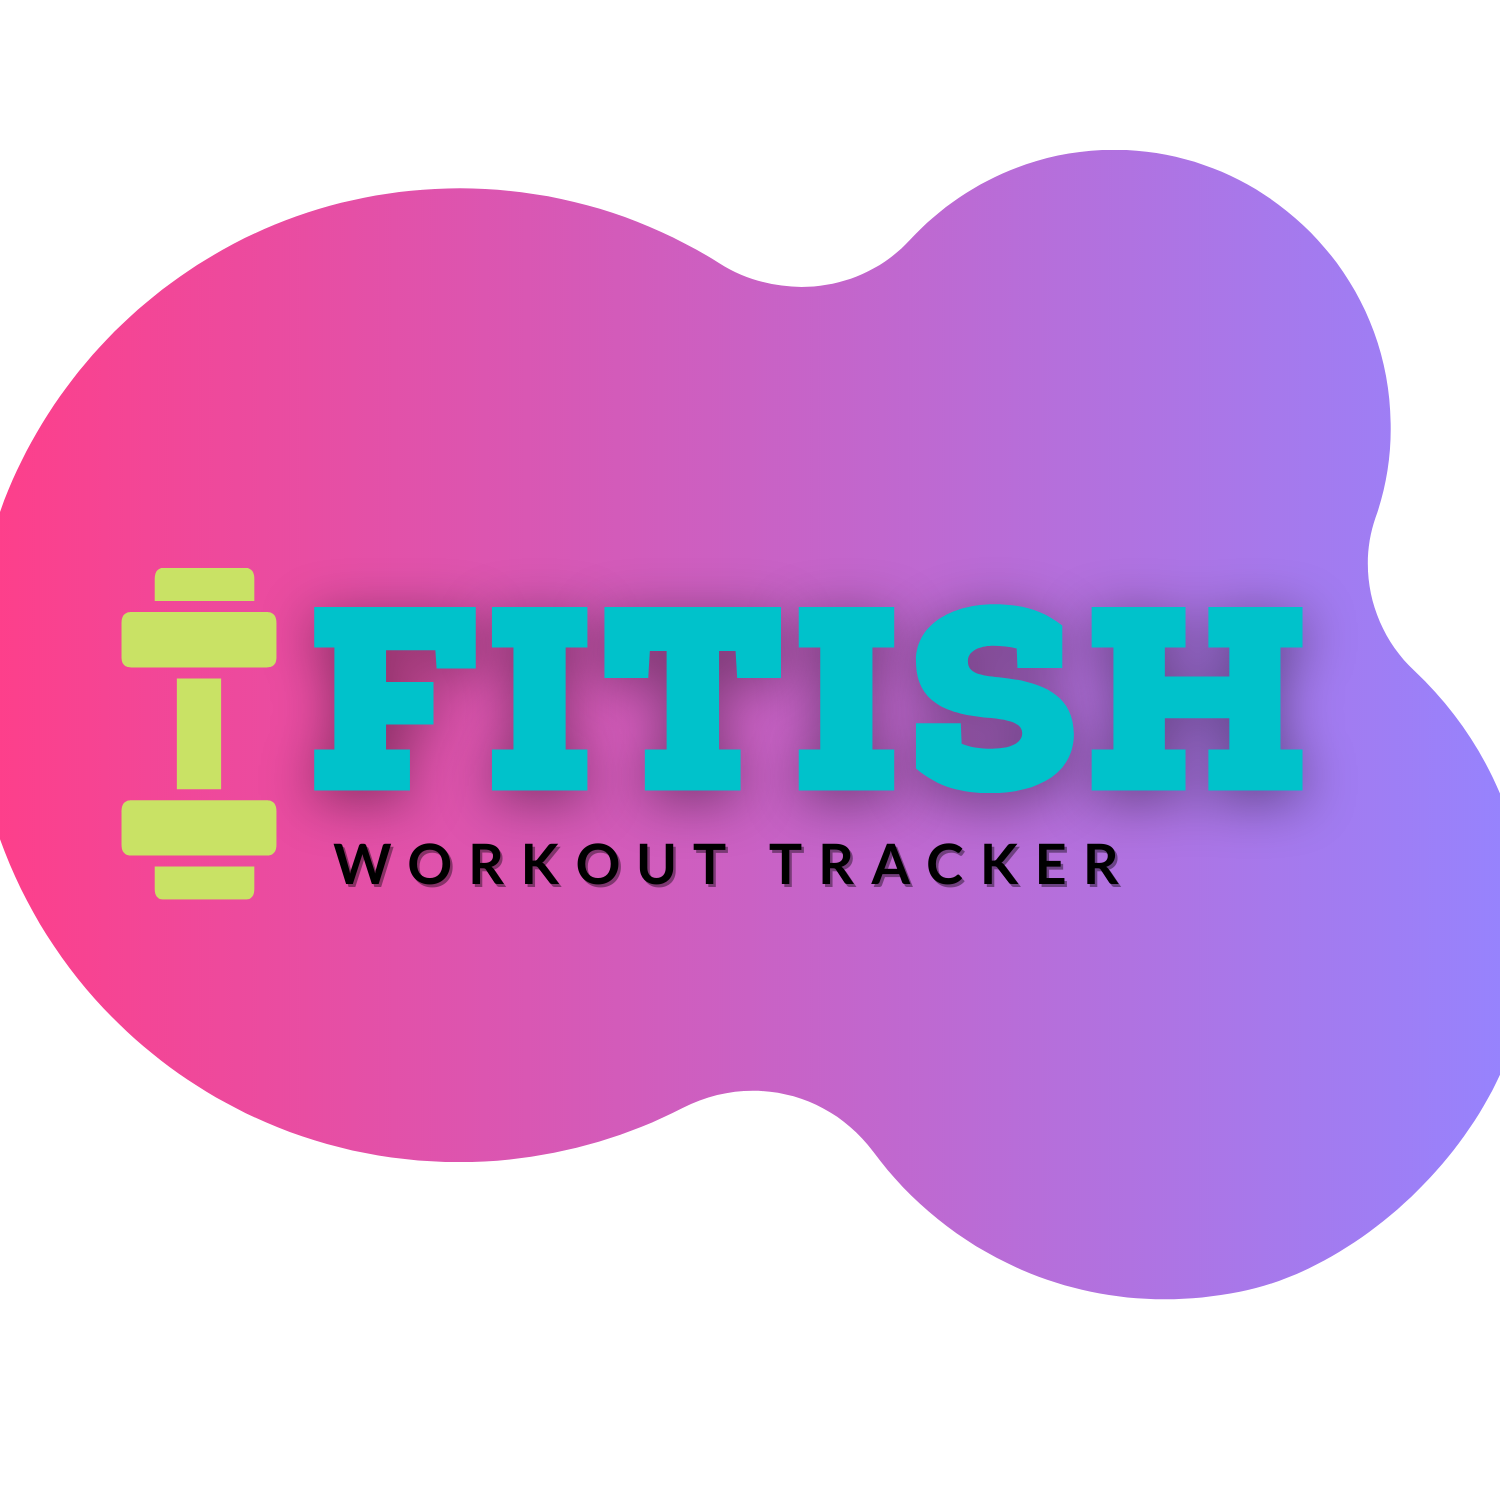
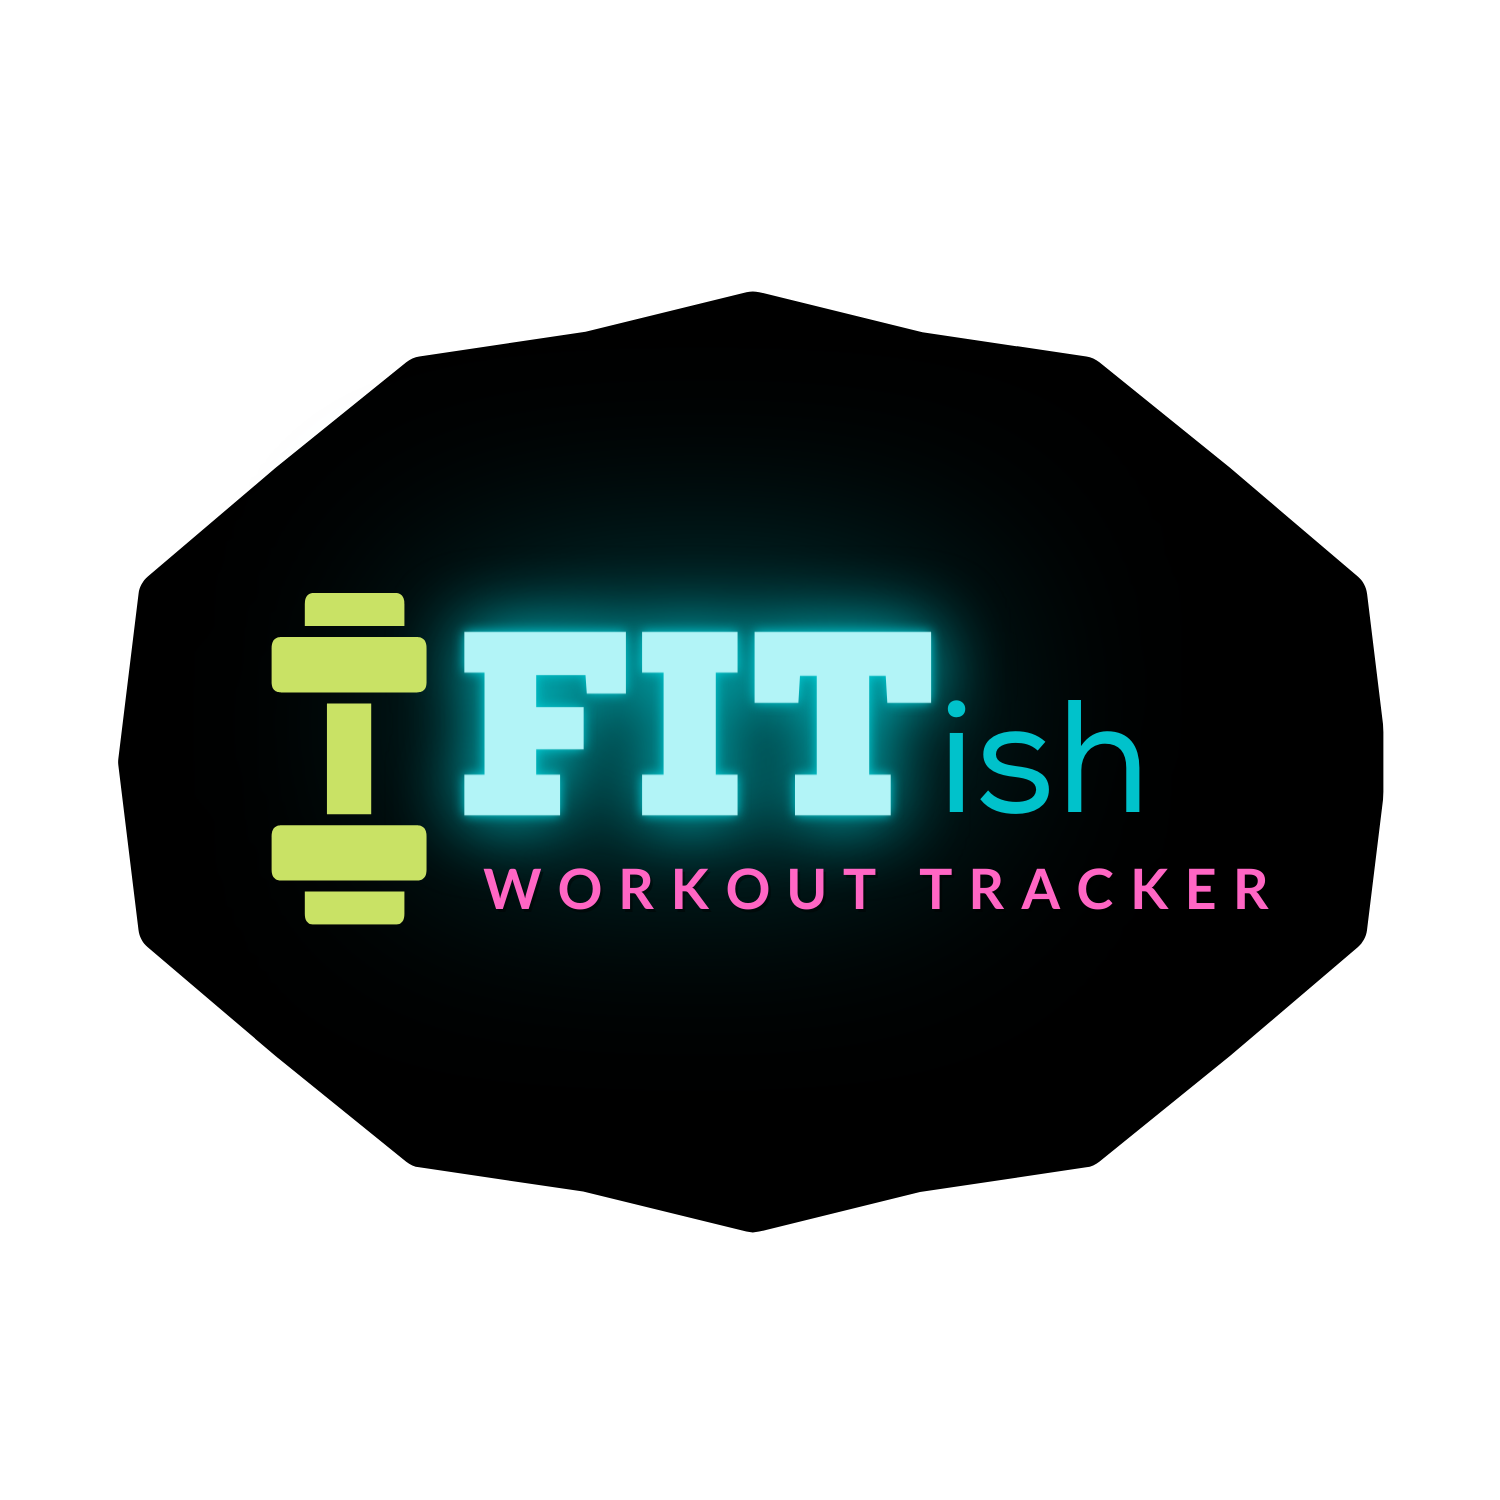
worked on styling since I was frustrated nothing else was working

diff --git a/public/css/style.css b/public/css/style.css
@@ -17,13 +17,21 @@ body {
 }
 
 nav {
-  background-color: #5793fd;
+  background-color:#010505 ;
   text-align: center;
-  color: #ffffff;
-  height: 80px;
+  color:#c9e266;
+  height: 60px;
   padding: 10px;
   line-height: 3;
-  font-size: 1.2rem;
+  font-size: 1.1 rem;
+}
+
+.ui.positive.button{
+  background-color: #ee65c2;
+}
+
+.ui.blue.button{
+  background-color: #b2f4f7;
 }
 
 a,
@@ -32,17 +40,10 @@ a:active,
 a:visited {
   text-decoration: none;
   color: inherit;
-}
-
-header {
-  height: 150px;
-  padding-top: 80px;
-  text-align: center;
-  font-size: 1.5rem;
-}
-
-header h1 {
-  transform: skewX(-2deg);
+  border: 1px solid #c9e266;
+  border-radius: 12px;
+  padding: 10px;
+  margin: 10px;
 }
 
 select {
@@ -97,8 +98,20 @@ input {
 }
 
 .wrapper {
-  background-color: #f2f8ff;
-  padding-bottom: 100px;
+  background-image: url(../img/FITish-background.jpg);
+  background-size: cover;
+  background-repeat: no-repeat;
+}
+.logo{
+  width: 100%;
+  max-width: 450px;
+  height: auto;
+  opacity: .93;
+}
+
+.header{
+text-align: center;
+
 }
 
 .card.m-auto,
@@ -153,6 +166,7 @@ button {
   border: none;
   cursor: pointer;
   font-size: 1rem;
+  text-align: center;
   border-radius: 6px;
   border: 1px solid #aaa;
   padding: 10px;

diff --git a/public/index.html b/public/index.html
@@ -16,9 +16,9 @@
     <a href="/stats">Dashboard</a>
   </nav>
   <div class="wrapper workout">
-    <header>
-      <h1>Fitness Tracker</h1>
-    </header>
+    <div class="header">
+    <img class= "logo" src="./img/FITish.png">
+    </div>
     <div class="ui container workout">
       <div class="ui raised card m-auto">
         <div class="prev-workout">
